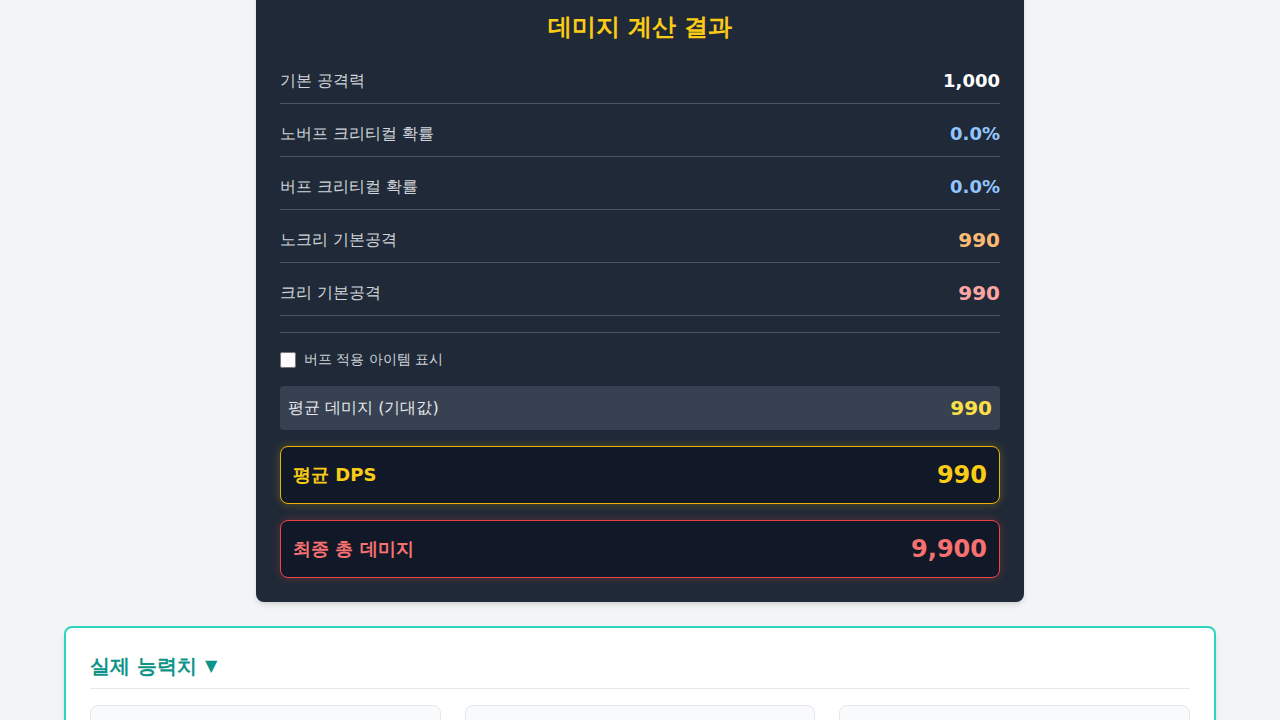
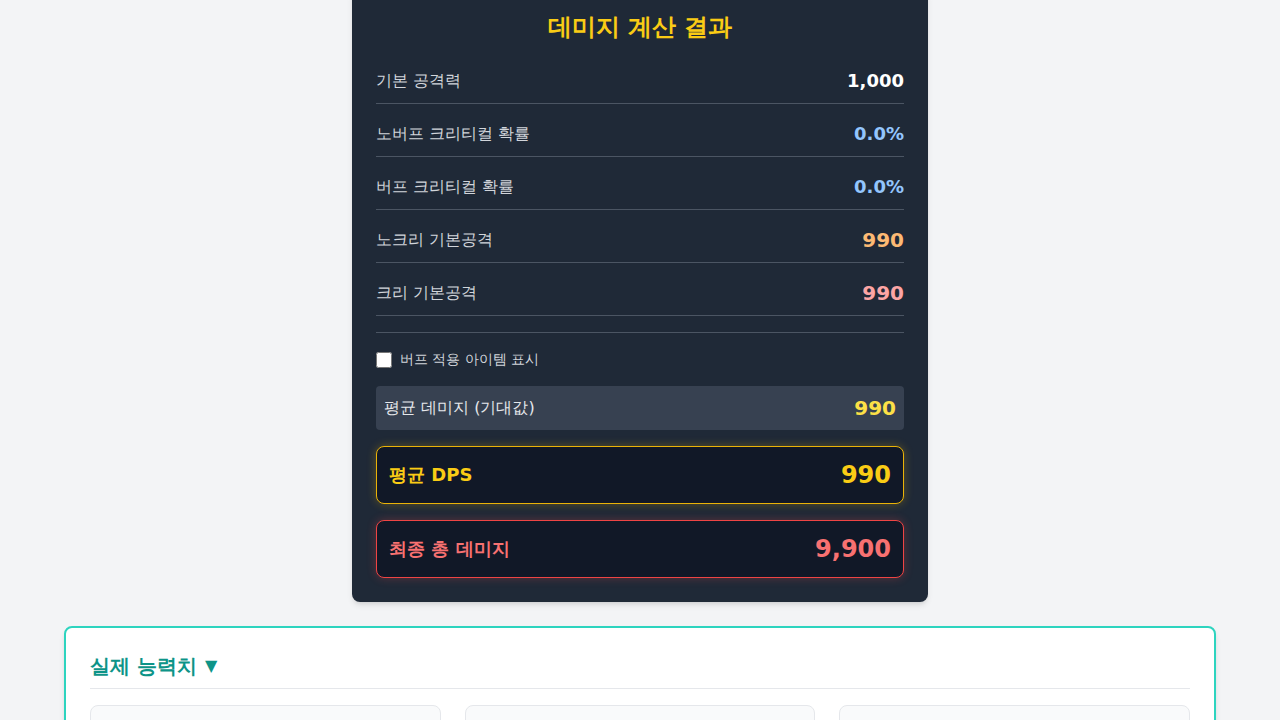
UI: Further reduce damage calculation results section width
- Changed the `max-w-3xl` class to `max-w-xl` on the "데미지 계산 결과" div in `index.html`.
- This restricts the maximum width of the box even further, as requested, to improve readability.

Changed region(s): [[0.1875, 0.0, 0.4375, 0.8556], [0.625, 0.0, 0.8125, 0.8556]]

diff --git a/index.html b/index.html
@@ -398,7 +398,7 @@
         </div>
 
         <!-- Results -->
-        <div class="bg-gray-800 text-white p-6 rounded-lg shadow-md mb-6 max-w-3xl mx-auto">
+        <div class="bg-gray-800 text-white p-6 rounded-lg shadow-md mb-6 max-w-xl mx-auto">
             <h2 class="text-2xl font-bold mb-6 text-center text-yellow-400">데미지 계산 결과</h2>
                     
                     <div class="space-y-4">
